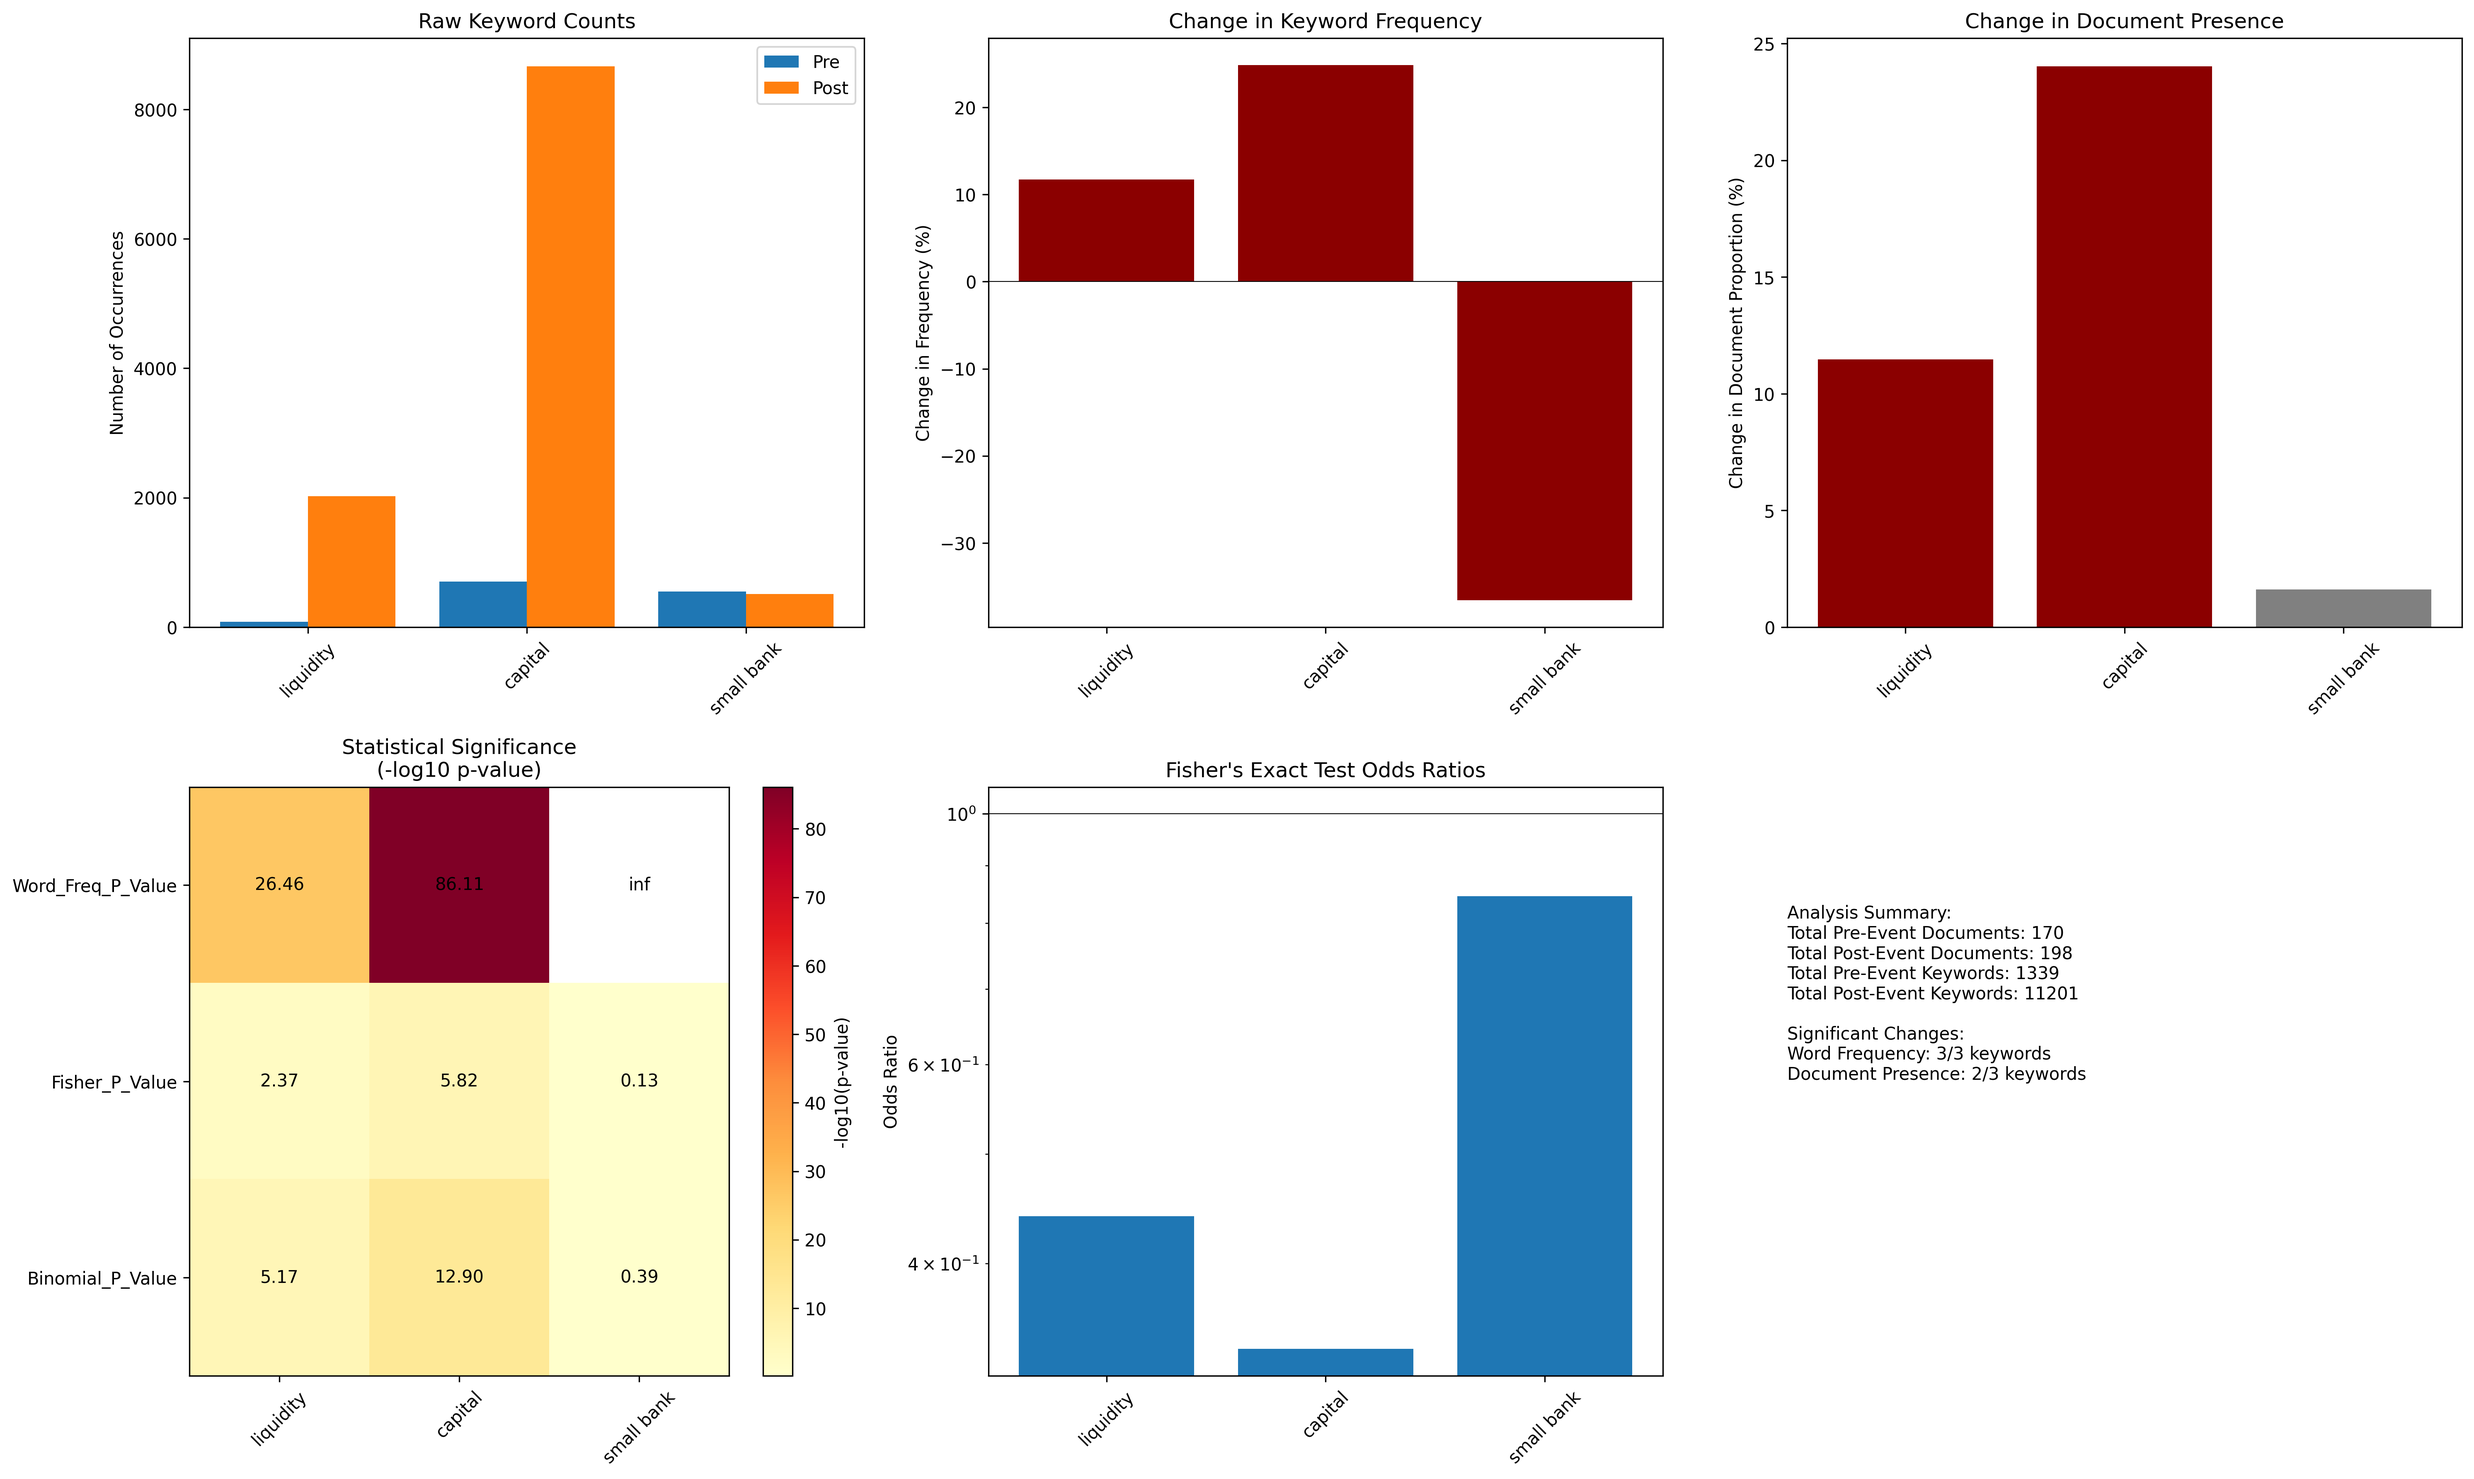
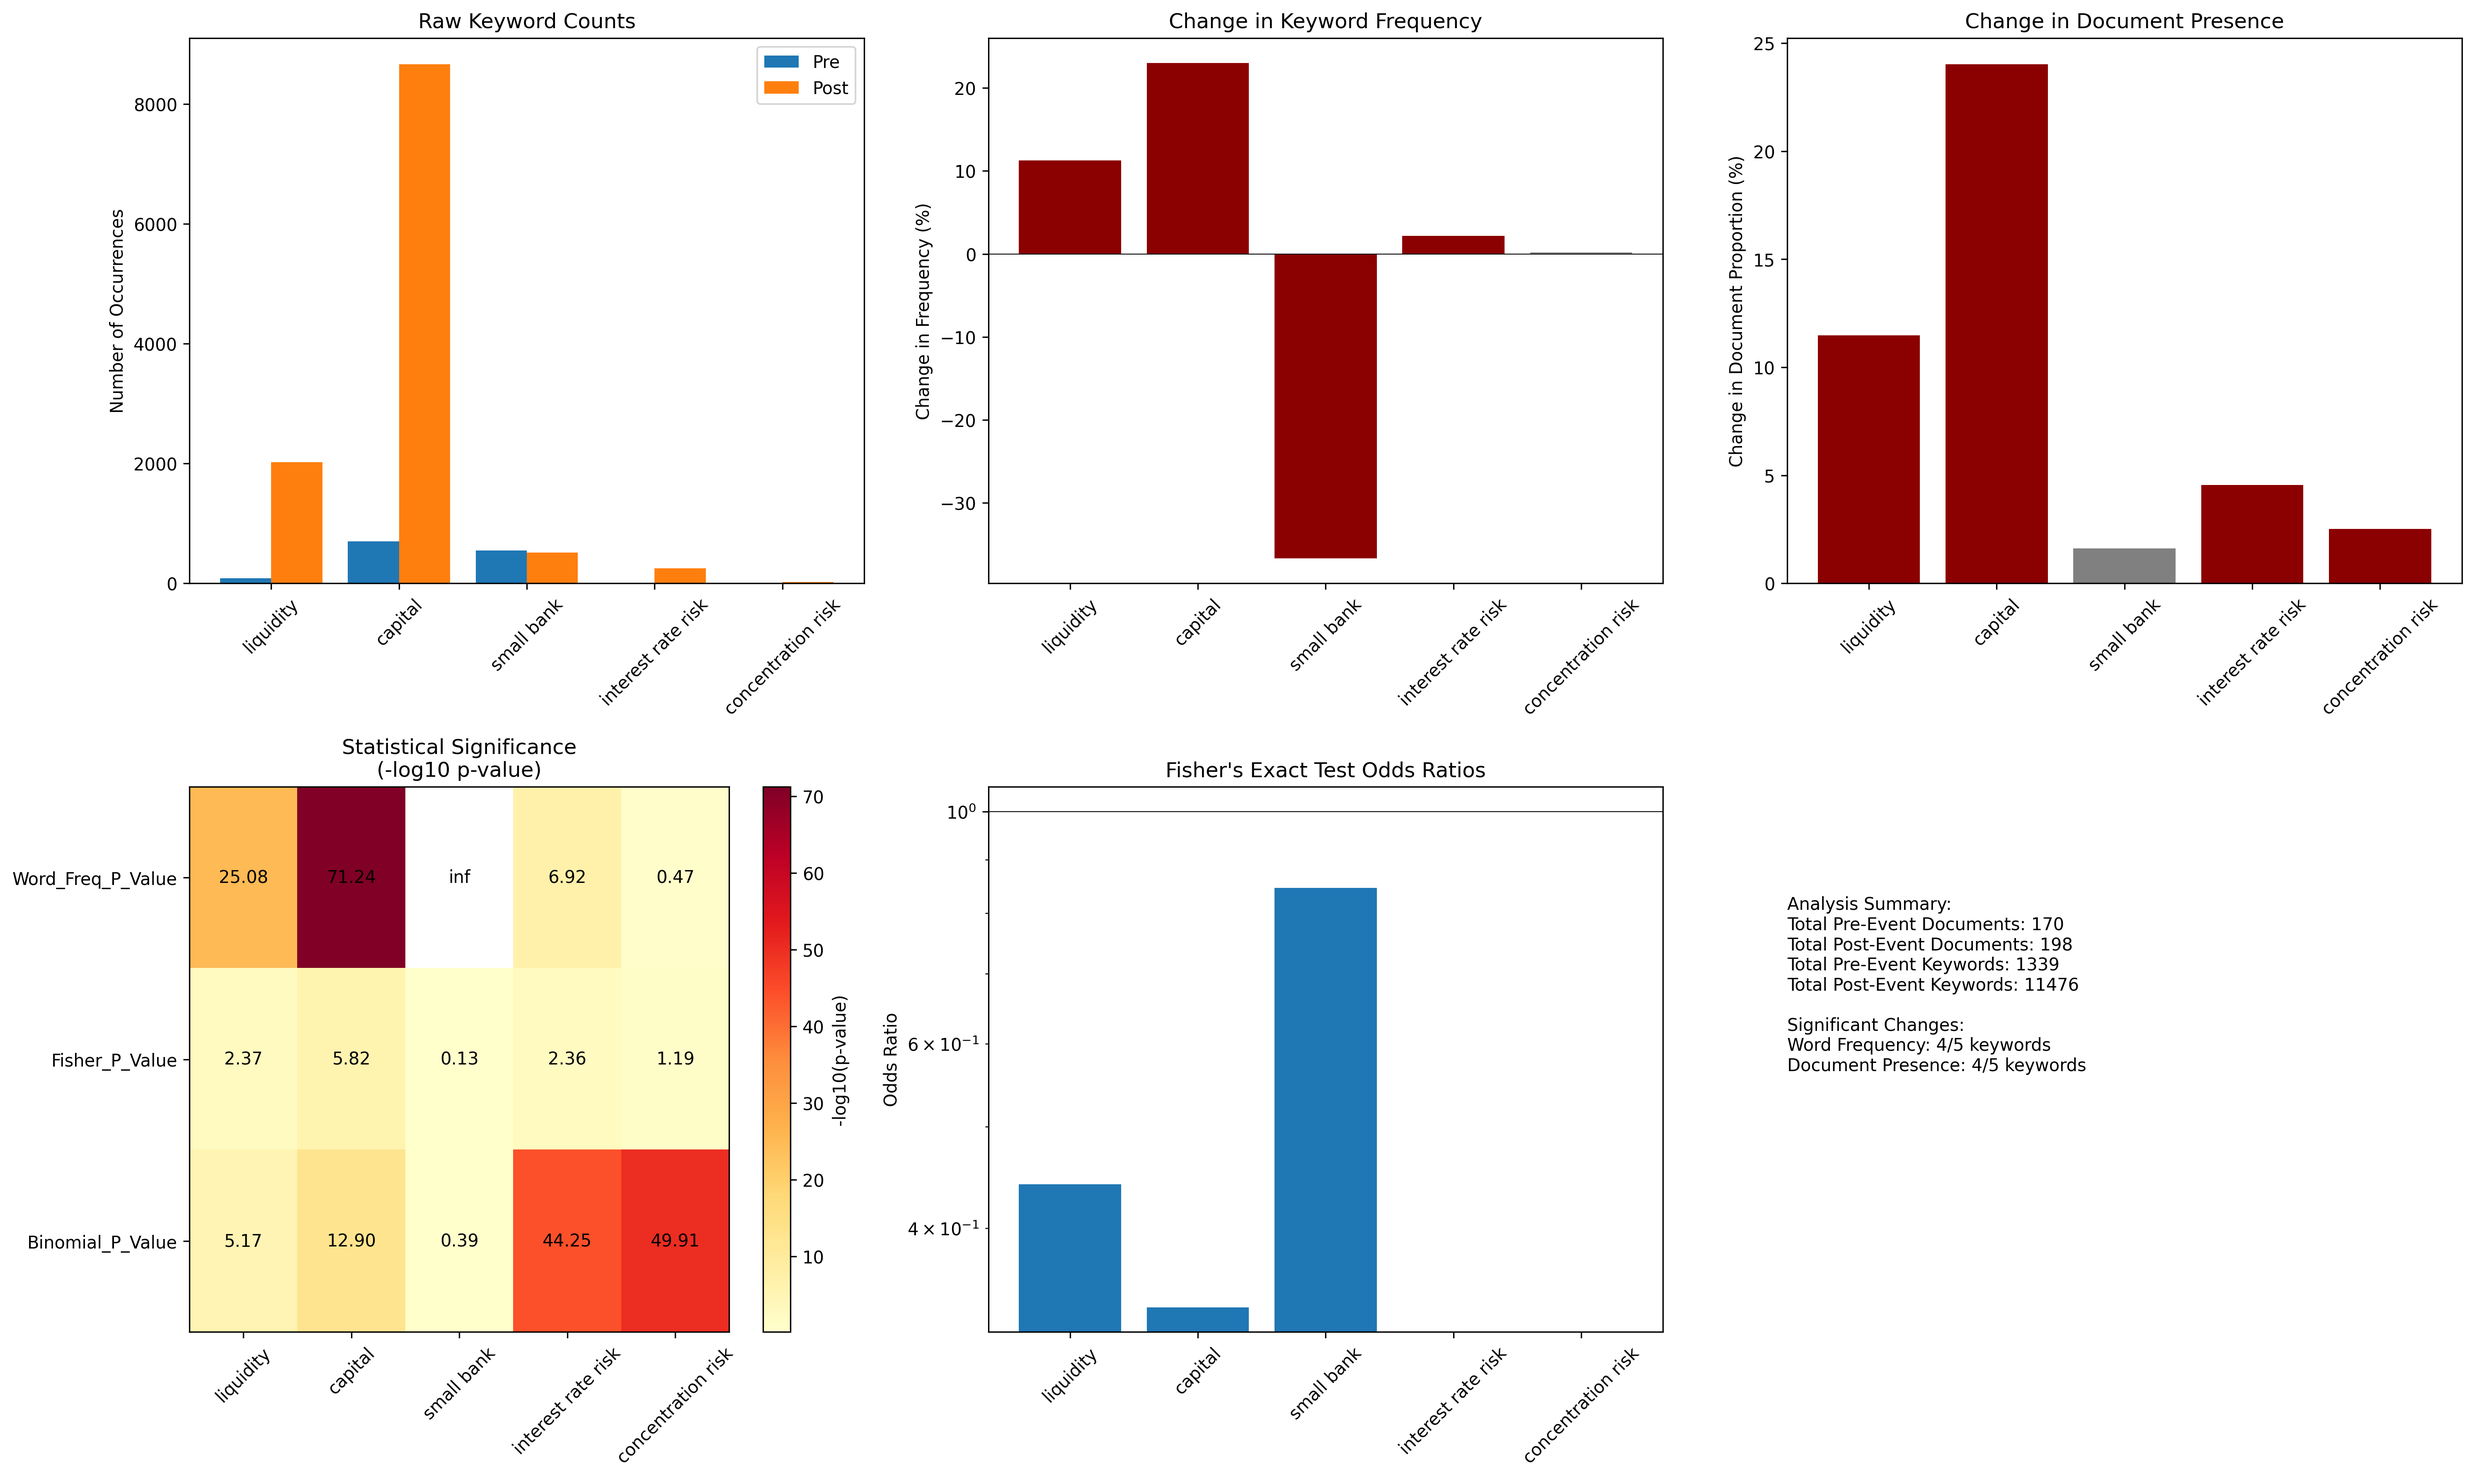
naive model work

diff --git a/naive_model/naive_2.py b/naive_model/naive_2.py
@@ -15,7 +15,7 @@ import json
 # Configuration
 PRE_FOLDER = "/Users/bluebird/develop/15.S08-applied-nlp-final/documents/pre_svb"
 POST_FOLDER = "/Users/bluebird/develop/15.S08-applied-nlp-final/documents/post_svb"
-KEYWORDS = ["liquidity", "capital", "small bank"]
+KEYWORDS = ["liquidity", "capital", "small bank", "interest rate risk", "concentration risk"]
 OUTPUT_DIR = "./naive_model/results"
 
 class NumpyEncoder(json.JSONEncoder):
